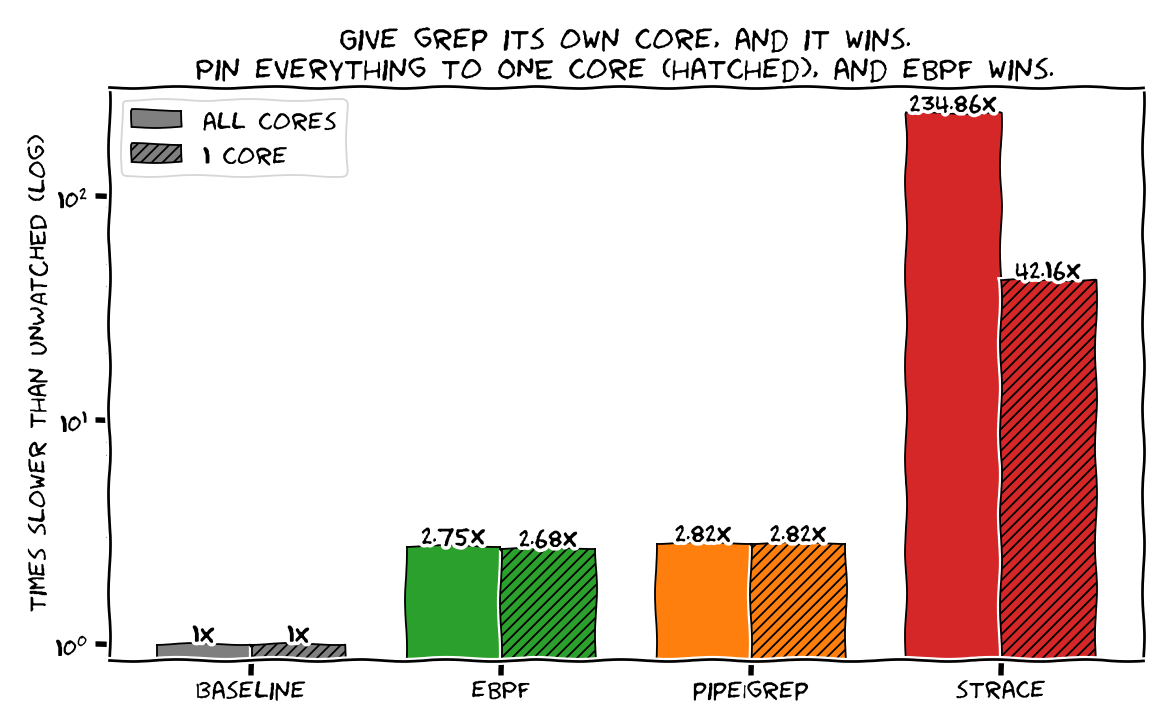
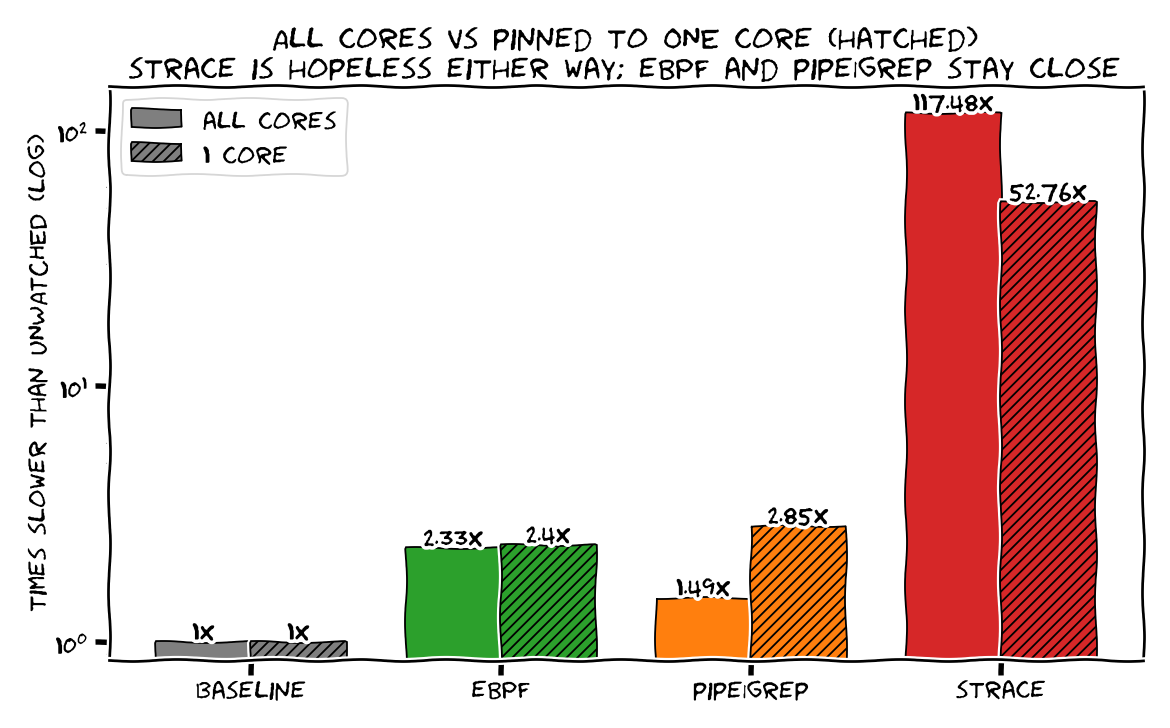
ci: refresh benchmark results [skip ci]

diff --git a/README.md b/README.md
@@ -31,10 +31,10 @@ _Generated by CI on 2026-06-17, kernel `6.17.0-1018-azure`, 4 CPUs. Workload: 20
 
 | method | wall (ms) | throughput (K lines/s) | slowdown vs baseline | ERROR count correct? |
 |---|--:|--:|--:|:--:|
-| baseline (unobserved) | 44 | 4545 | 1.0× | – |
-| **eBPF (in-kernel)** | 121 | 1653 | 2.8× | yes |
-| pipe \| grep (userspace) | 124 | 1613 | 2.8× | yes |
-| strace / ptrace (userspace) | 10334 | 19 | 234.9× | yes |
+| baseline (unobserved) | 97 | 2062 | 1.0× | – |
+| **eBPF (in-kernel)** | 226 | 885 | 2.3× | yes |
+| pipe \| grep (userspace) | 145 | 1379 | 1.5× | yes |
+| strace / ptrace (userspace) | 11396 | 18 | 117.5× | yes |
 
 <!-- RESULTS:END -->
 
